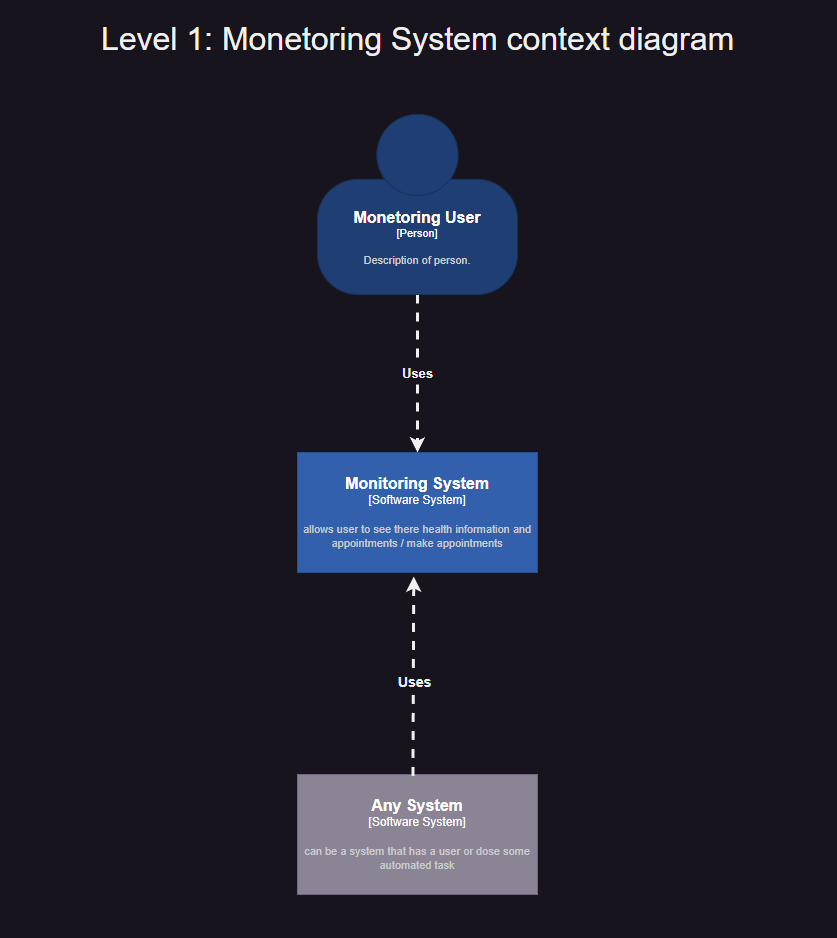
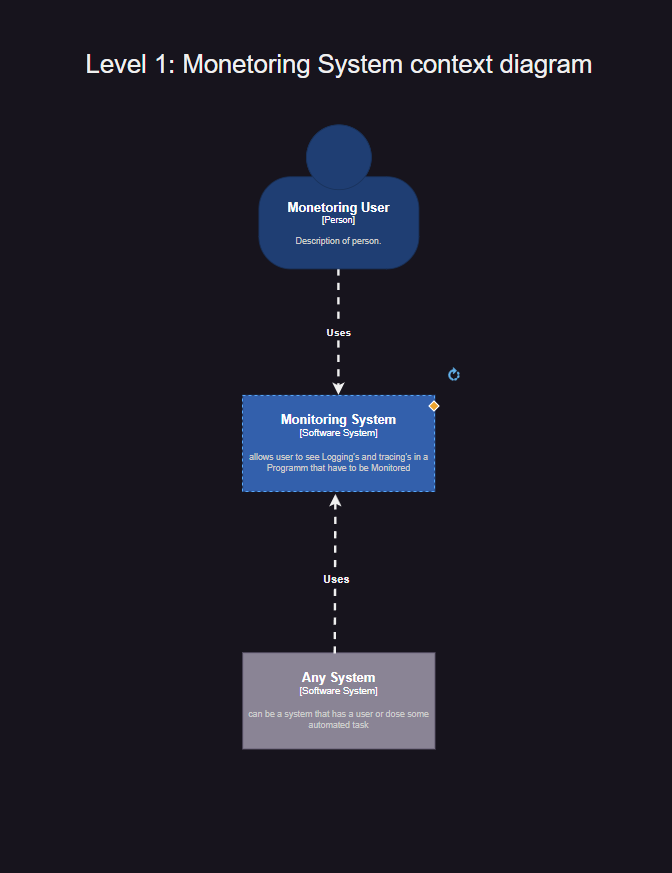
💬 updated the image and readme

Changed region(s): [[0.3438, 0.1237, 0.6562, 0.9588], [0.125, 0.0309, 0.875, 0.0928], [0.6562, 0.4021, 0.6875, 0.433]]

diff --git a/README.md b/README.md
@@ -16,9 +16,12 @@ Her a link to our [project](https://www.figma.com/board/892iLuWnOICp8H1fiWFxyl/D
 
 This image is a context diagram that illustrates the relationship between a monitoring user, a monitoring system, and any other system that might be monitored.
 wrong image!!!!!!!!!!!
+
 ![LVL1](https://github.com/Rogengell/DLS-Compulsory-Health-App-Api/blob/main/Diagrams/Level%201%20Monetoring%20System%20context%20diagram.png)
 
 ### **Level 2** :hammer:
+
+The diagram shows the relationships between these components and the data flow between them. For example, the monitoring user interacts with the monitoring web app, which in turn queries the monitoring database to retrieve monitoring data. The logging and tracing APIs collect data from the monitored systems and store it in the database.
 
 ![LVL2](https://github.com/Rogengell/DLS-Compulsory-Health-App-Api/blob/main/Diagrams/Level%202%20Container%20diagram%20Monetoring%20System.png)
 
@@ -45,7 +48,6 @@ wrong image!!!!!!!!!!!
 - restAPI
 - dependency injection
 - We are using Nginx, because it is a valuable tool for horizontal scaling in Docker environments, providing load balancing, performance optimization, and fault tolerance.
-- nginx
 
 ## **Setup Monitoring Programm** :rocket:
 
